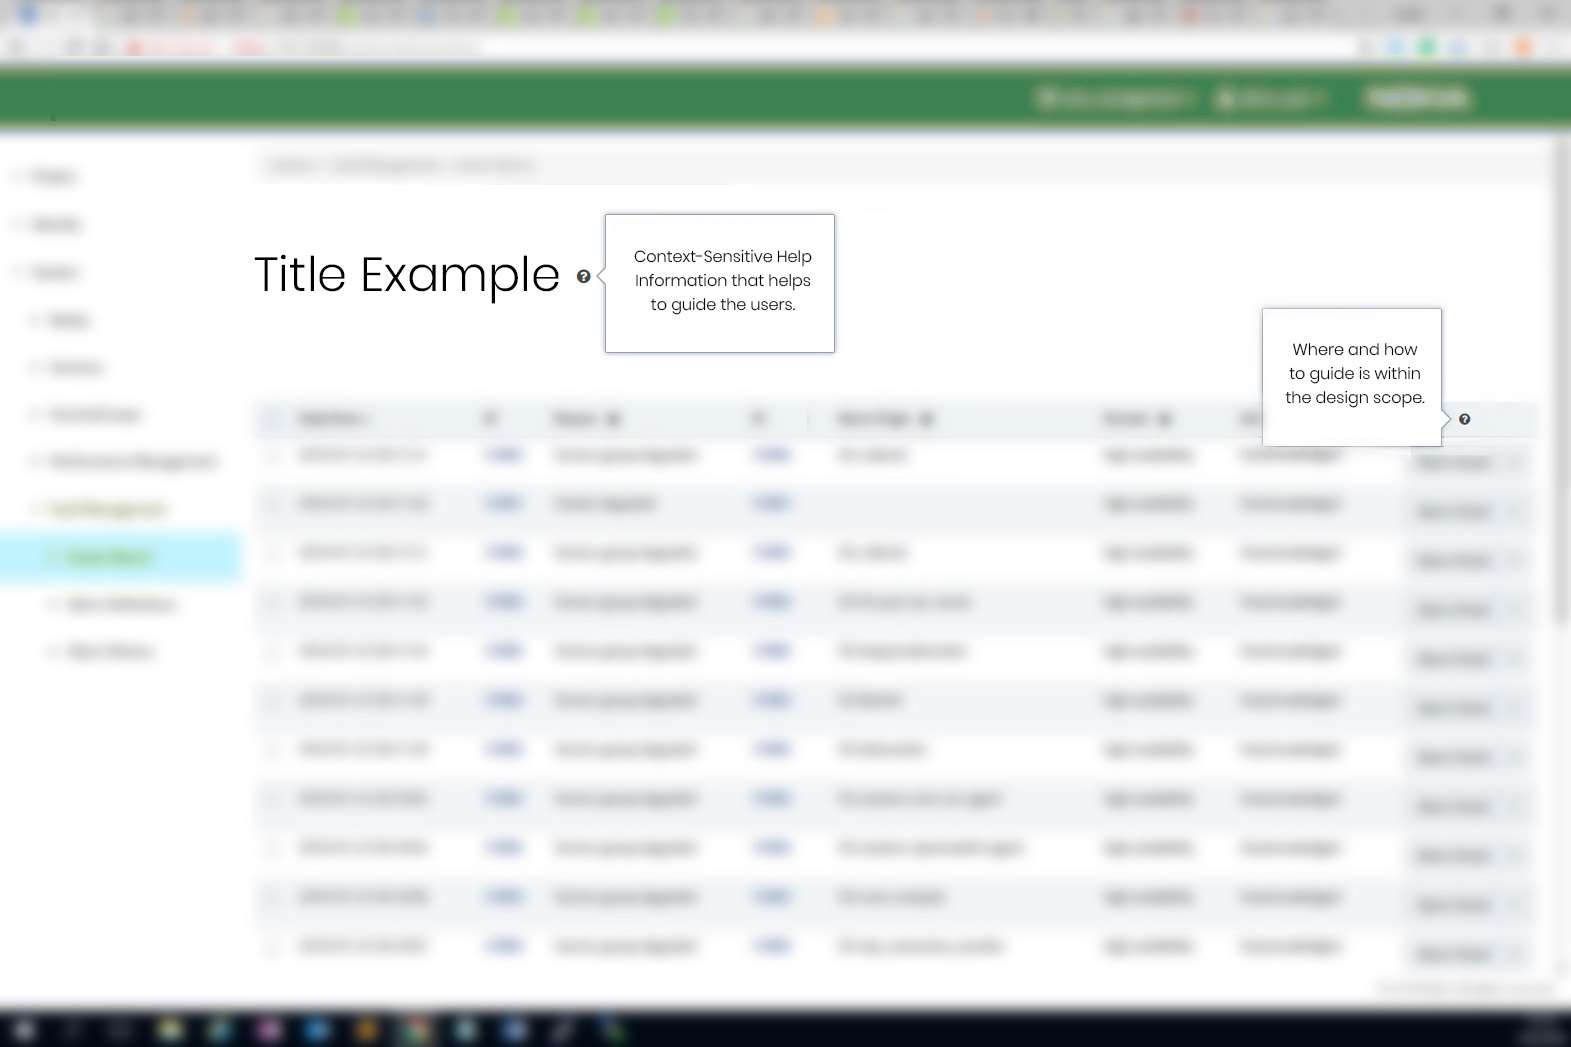
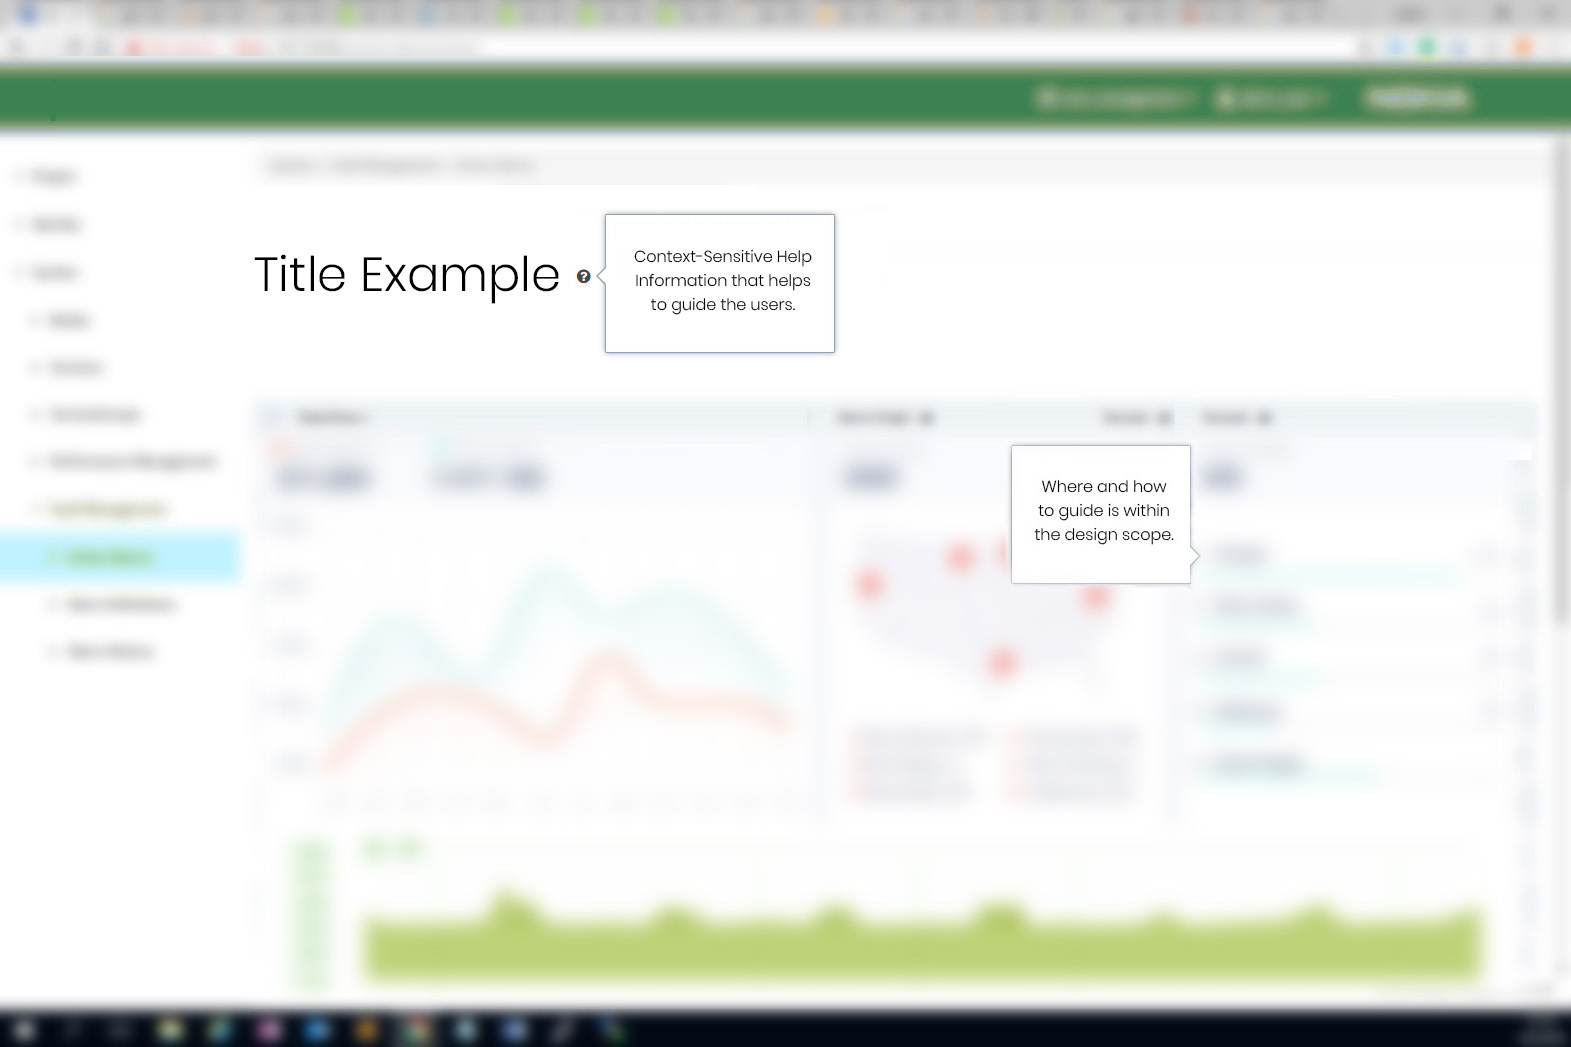
project confidentiality

diff --git a/project_nokia.html b/project_nokia.html
@@ -275,7 +275,7 @@
 
                                                 <div class="entry">
                                                     <p>It was quite a challenging but exciting experience to work as a <em><b style="color: rgb(208,27,76);">Full-stack Developer</b></em> at Nokia. I worked on everything related to the <em><b style="color: rgb(208,27,76);">Context Sensitive Help Infotips</b></em> for a cloud management dashboard. It covered demand defining, designing, and especially building everything out. I really learned a lot a lot and gradually got familiar with the whole process of web development; especially, I'm comfortable with front-end now. However, I would never say, hey I'm a developer; I'm always a DESIGNER ❤ The development skills are crucial as well, just like the pen in my hand.</p> 
-                                                    <p>I cannot say more due to confidentiality. For providing a rough idea for what it was about, I implemented a fake demo of infotip following the page title above.</p>
+                                                    <p>I cannot say more due to confidentiality. For providing a rough idea, I implemented a fake demo of infotip following the page title above; and designed a new web as blurred in the picture.</p>
                                                 </div><!--End entry-->
                  
 
